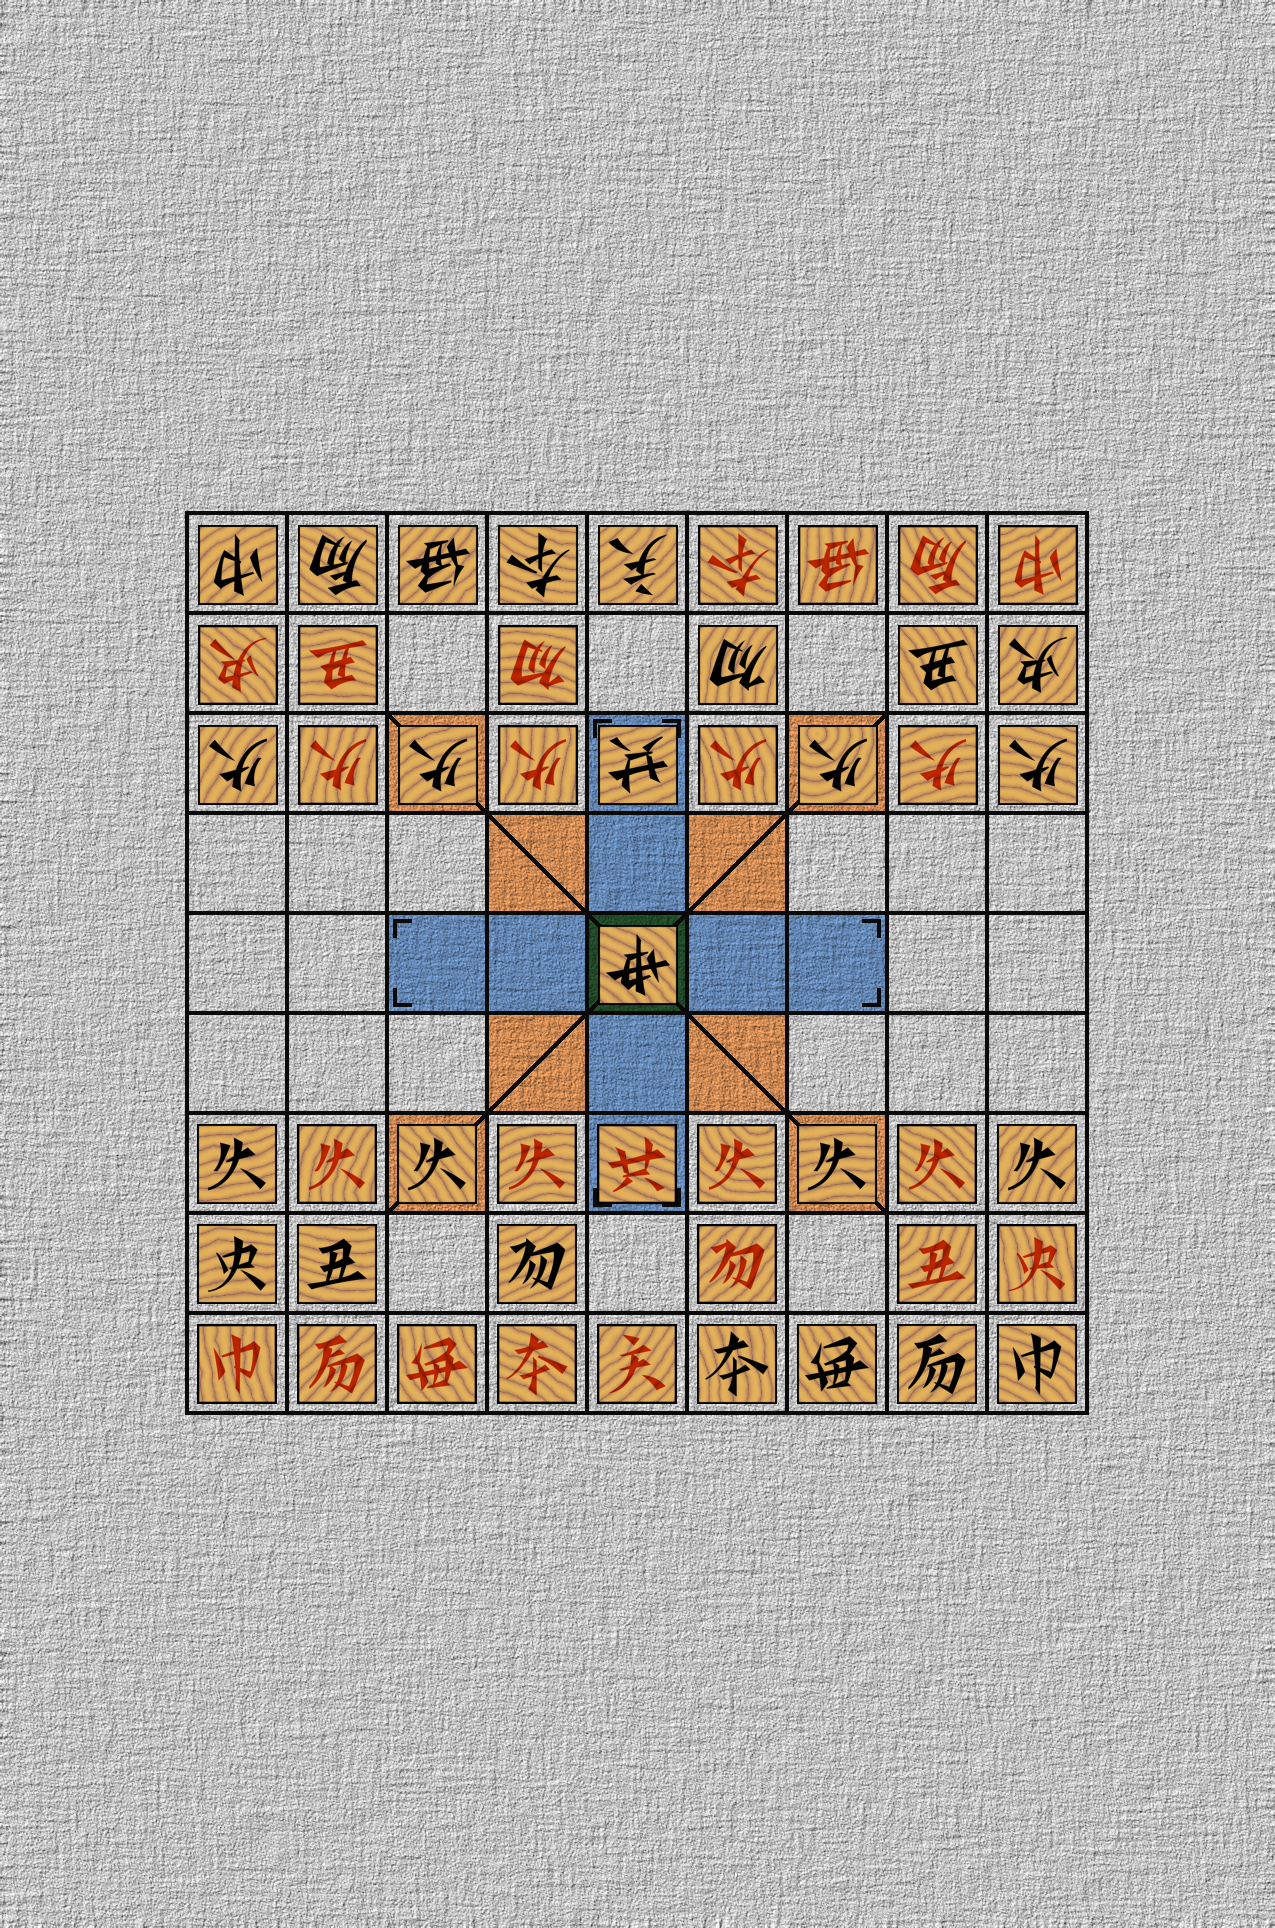
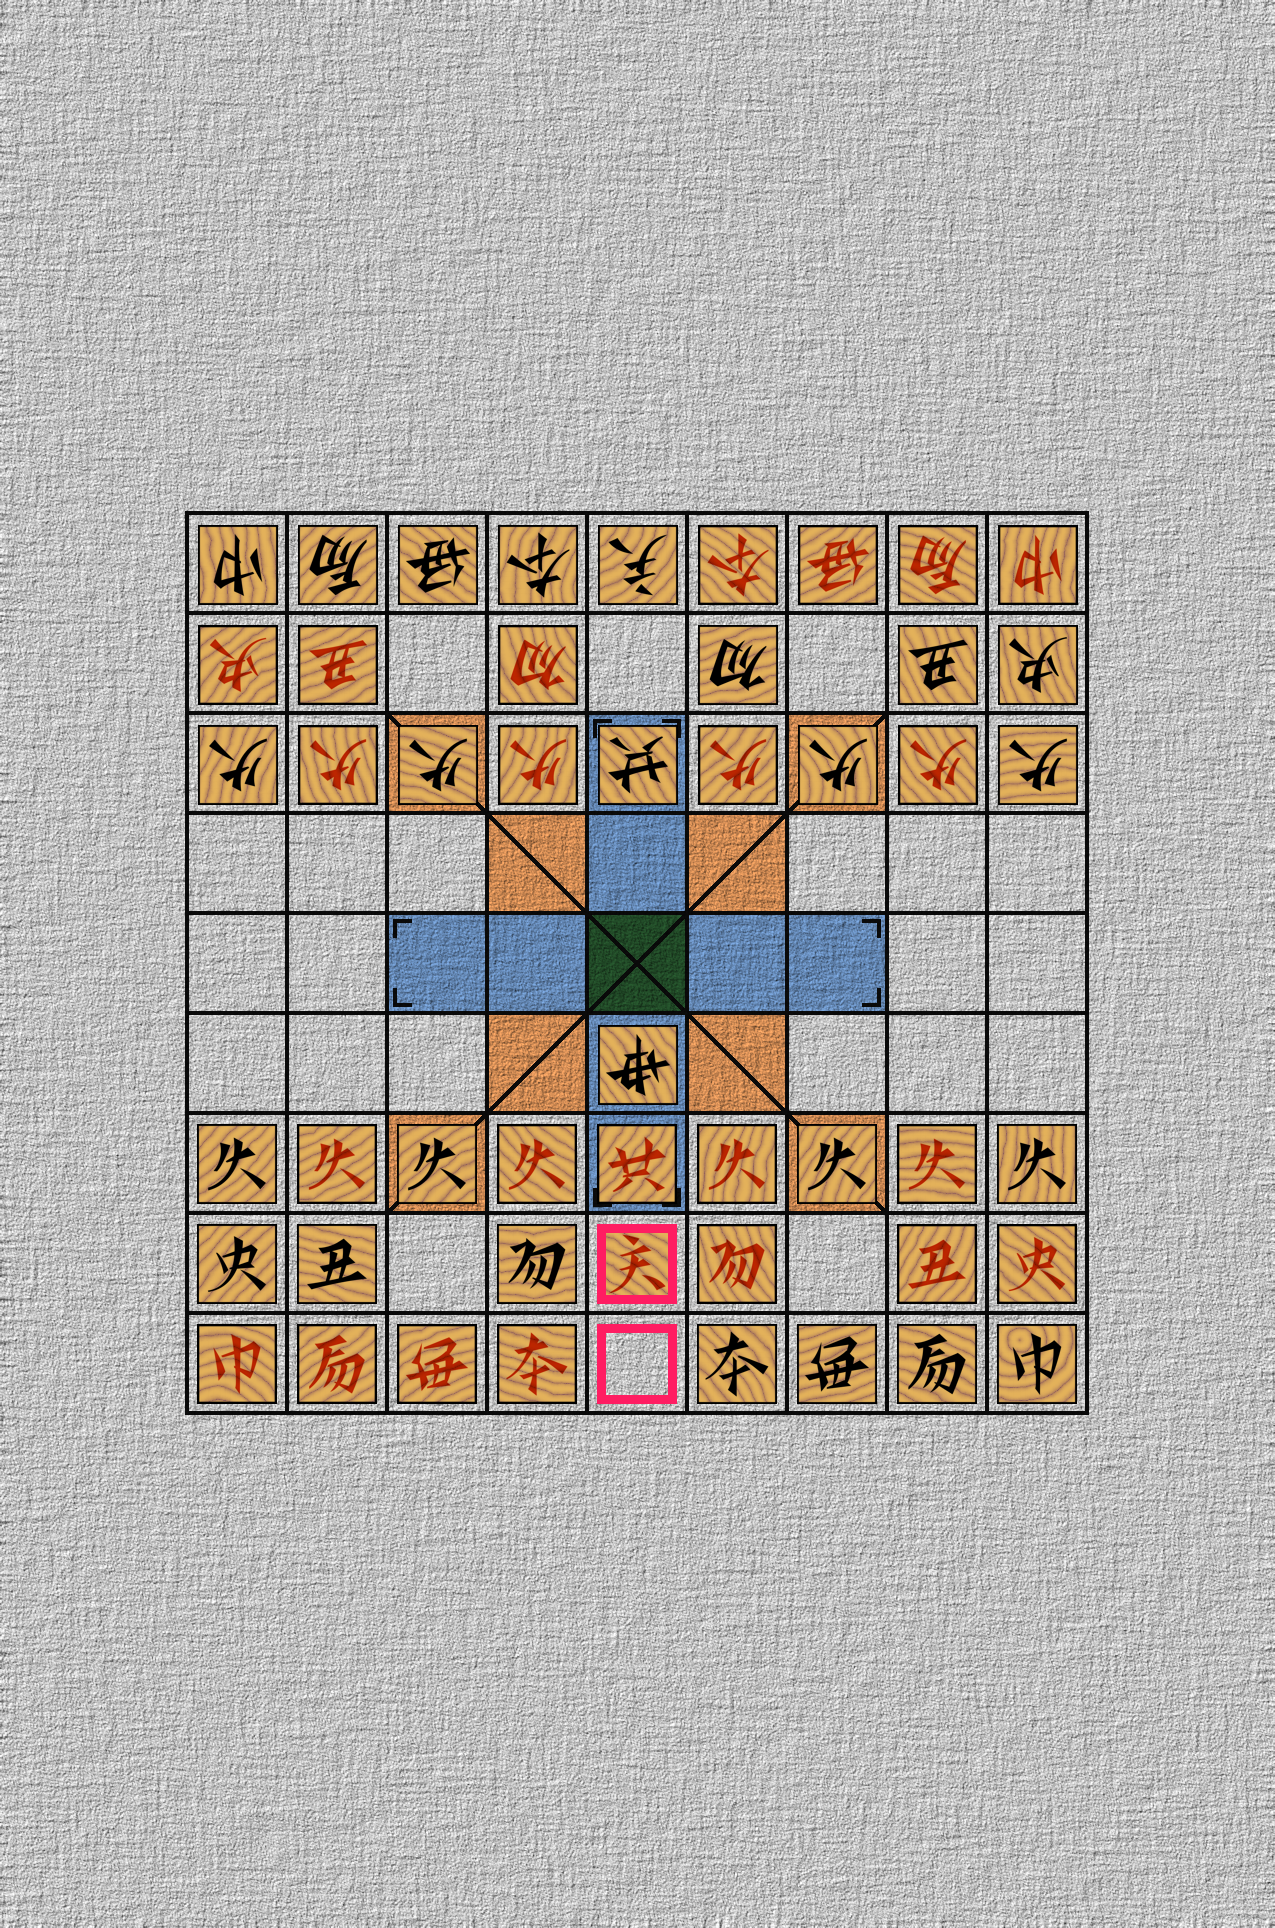
Parse the coordinate and implement mov

Changed region(s): [[0.1529, 0.4668, 0.8565, 0.7469], [0.4894, 0.2801, 0.8565, 0.4357], [0.1529, 0.2801, 0.52, 0.4357]]

diff --git a/src/main.rs b/src/main.rs
@@ -73,8 +73,71 @@ fn initiate(ctx: &mut Context, msg: &Message) -> CommandResult {
     Ok(())
 }
 
+fn parse_coord(coord: &str) -> Option<(Row, Column)> {
+    if coord.len() < 1 || coord.len() > 3 {
+        return None;
+    }
+
+    let column = match coord.chars().nth(0) {
+        None => None, // early return
+        Some('C') => Some(Column::C),
+        Some('K') => Some(Column::K),
+        Some('L') => Some(Column::L),
+        Some('M') => Some(Column::M),
+        Some('N') => Some(Column::N),
+        Some('P') => Some(Column::P),
+        Some('T') => Some(Column::T),
+        Some('X') => Some(Column::X),
+        Some('Z') => Some(Column::Z),
+        Some(_) => None
+    }?;
+
+    let row = match &coord[1..coord.len()] {
+        "A" => Some(Row::A),
+        "AI" => Some(Row::AI),
+        "AU" => Some(Row::AU),
+        "E" => Some(Row::E),
+        "I" => Some(Row::I),
+        "O" => Some(Row::O),
+        "U" => Some(Row::U),
+        "Y" => Some(Row::Y),
+        "IA" => Some(Row::IA),
+        _ => None
+    }?;
+
+    Some((row, column))
+}
+
 #[command]
 fn mov(ctx: &mut Context, msg: &Message) -> CommandResult {
+    let input: Vec<&str> = msg.content.split_whitespace().collect();
+    if input.len() < 3 {
+        msg.channel_id
+                .say(&ctx.http, format!("Not enough arguments. Expected: 2, got: {}", input.len() - 1))?;
+                return Ok(());
+    }
+
+    let src = match parse_coord(input[1]) {
+        None => {
+            msg.channel_id
+                .say(&ctx.http, format!("The first argument is incorrect. Expected a coordinate, got: {}", input[1]))?;
+                return Ok(());
+        }
+        Some(coord) => coord
+    };
+
+    let dst = match parse_coord(input[2]) {
+        None => {
+            msg.channel_id
+                .say(&ctx.http, format!("The second argument is incorrect. Expected a coordinate, got: {}", input[2]))?;
+                return Ok(());
+        }
+        Some(coord) => coord
+    };
+
+    println!("moving; src: {:?},  dst: {:?}", src, dst);
+    
+
     let map = serde_json::json!({
         "content": "Loading...",
         "tts": false,
@@ -82,7 +145,7 @@ fn mov(ctx: &mut Context, msg: &Message) -> CommandResult {
     ctx.http.send_message(msg.channel_id.0, &map)?;
 
     let mut field = bot::FIELD.lock().unwrap();
-    match field.move_to_empty_square((Row::A, Column::K), (Row::A, Column::L)) {
+    match field.move_to_empty_square(dst, src) {
         Ok(()) => {
             field.render(Side::IASide).save("iaside.png").unwrap();
             field.render(Side::ASide).save("aside.png").unwrap();
